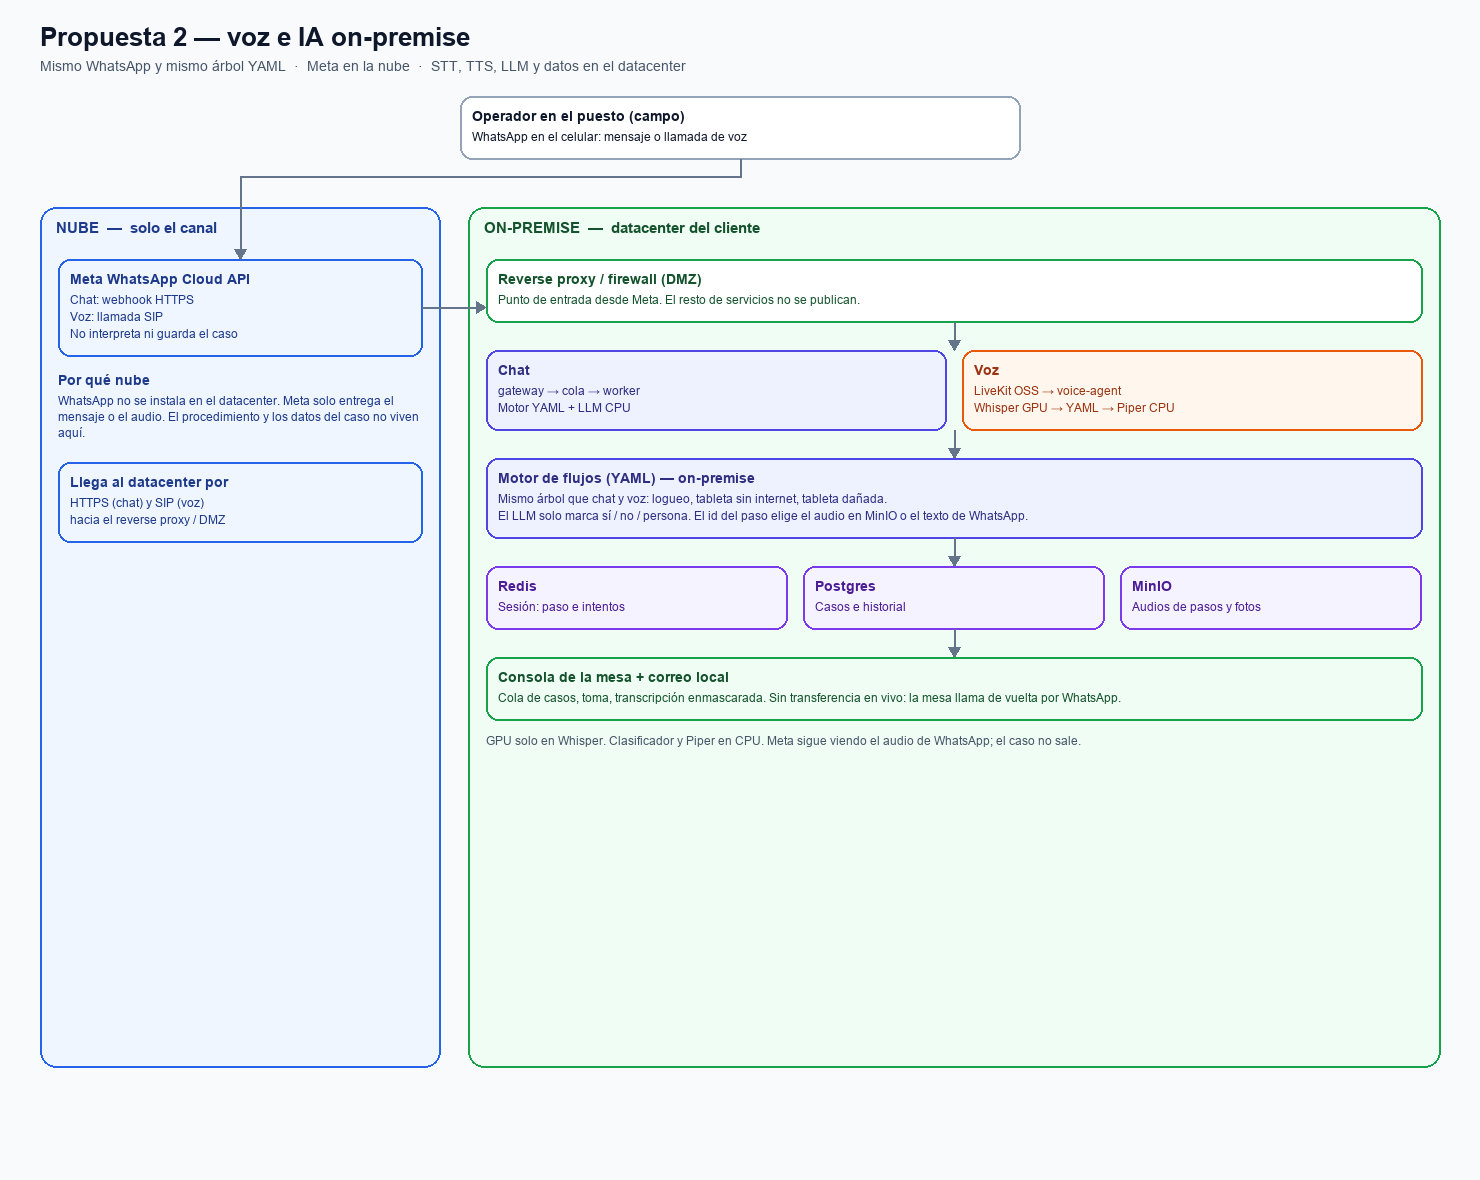
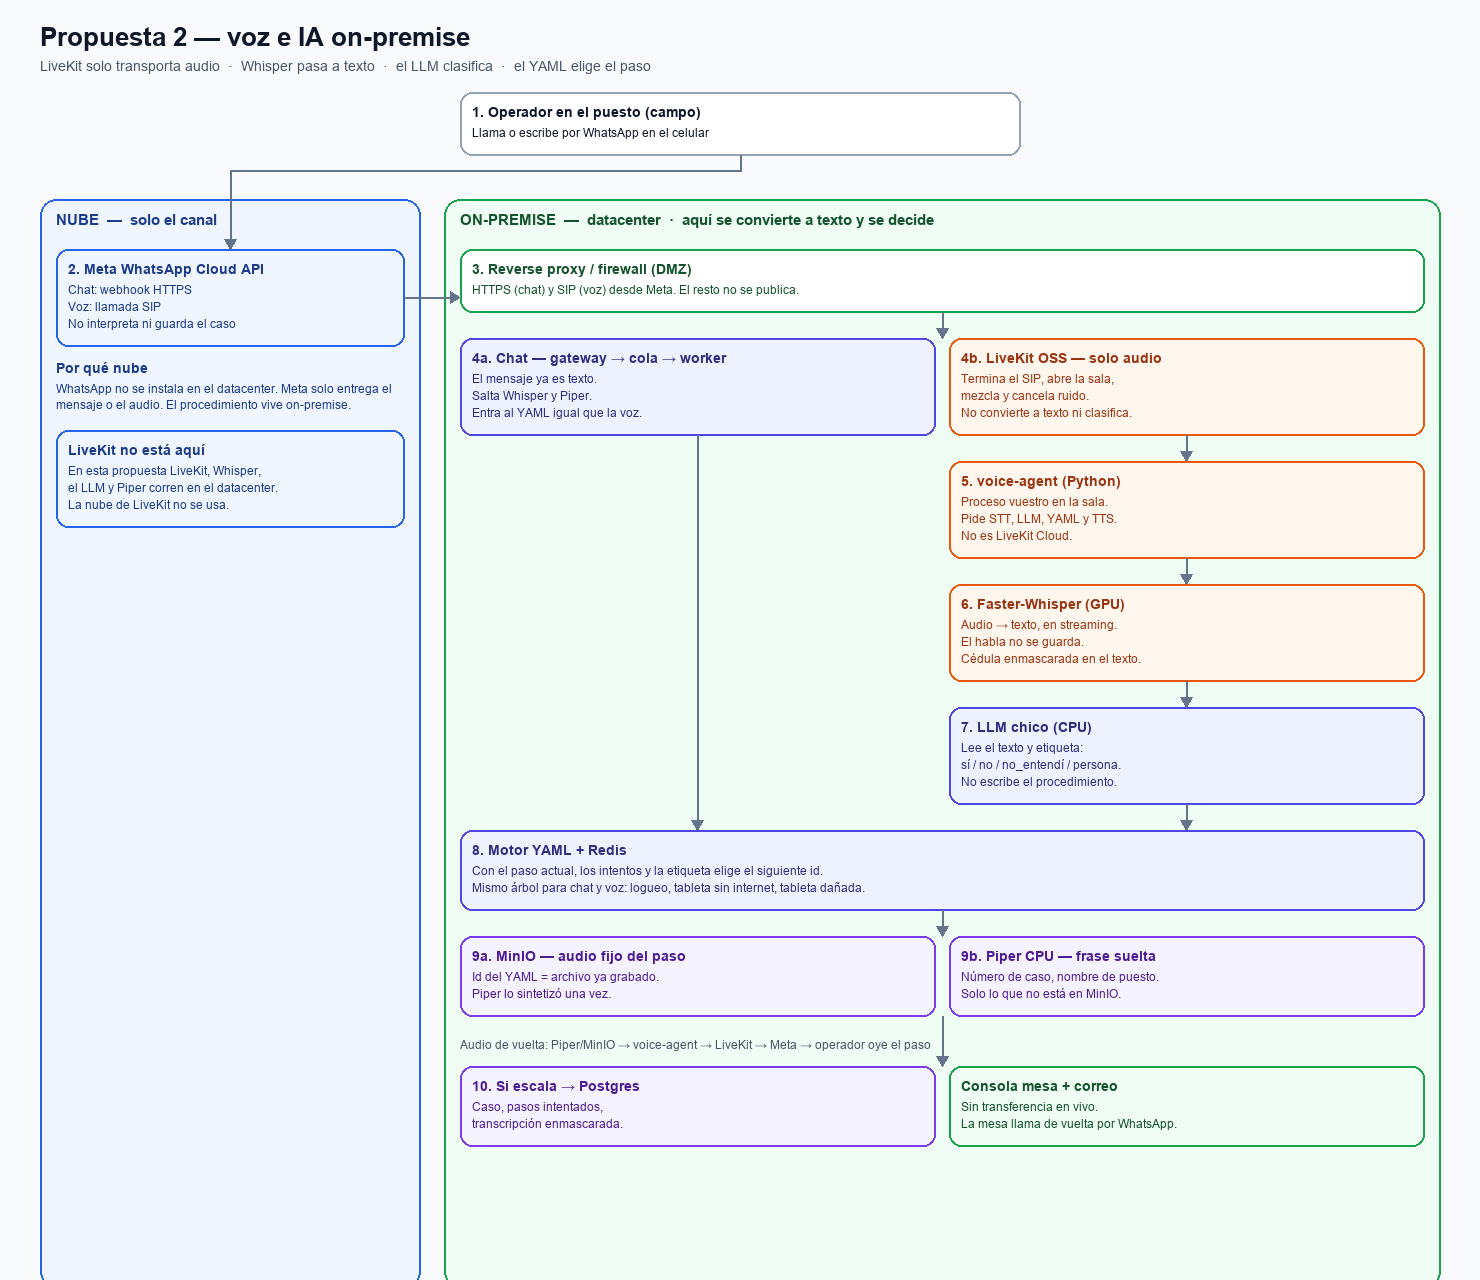
Detalla en el diagrama Whisper, LLM, YAML y Piper.
El recuadro on-premise muestra cada componente del turno de voz, no solo el canal y los datos.

Changed region(s): [[0.0311, 0.0, 0.9635, 0.9153], [0.5284, 0.4881, 0.5905, 0.5186], [0.9324, 0.8237, 0.9635, 0.8542]]

diff --git a/propuesta-2/generate_arquitectura.py b/propuesta-2/generate_arquitectura.py
@@ -158,6 +158,13 @@ def arrow_right(draw, x1, y, x2):
     draw.polygon([(x2, y), (x2 - 10, y - 6), (x2 - 10, y + 6)], fill=COLORS["arrow"])
 
 
+def arrow_left(draw, x1, y, x2):
+    if x1 - x2 < 14:
+        return
+    draw.line((x1, y, x2 + 10, y), fill=COLORS["arrow"], width=2)
+    draw.polygon([(x2, y), (x2 + 10, y - 6), (x2 + 10, y + 6)], fill=COLORS["arrow"])
+
+
 def draw_diagram():
     title_font = font(26, bold=True)
     subtitle_font = font(14)
@@ -173,107 +180,159 @@ def draw_diagram():
     app = {"bg": COLORS["app_bg"], "border": COLORS["app_border"], "text": COLORS["app_text"]}
     mesa = {"bg": COLORS["onp_bg"], "border": COLORS["onp_border"], "text": COLORS["onp_text"]}
 
-    H = 1180
+    H = 1280
     img = Image.new("RGB", (W, H), BG)
     draw = ImageDraw.Draw(img)
 
     draw.text((MARGIN, 22), "Propuesta 2 — voz e IA on-premise", fill=COLORS["title"], font=title_font)
     draw.text(
         (MARGIN, 58),
-        "Mismo WhatsApp y mismo árbol YAML  ·  Meta en la nube  ·  STT, TTS, LLM y datos en el datacenter",
+        "LiveKit solo transporta audio  ·  Whisper pasa a texto  ·  el LLM clasifica  ·  el YAML elige el paso",
         fill=COLORS["subtitle"],
         font=subtitle_font,
     )
 
-    op_w, op_h_box = 560, 0
+    op_w = 560
     op_x = (W - op_w) // 2
     op = draw_box(
-        draw, op_x, 96, op_w,
-        "Operador en el puesto (campo)",
-        ["WhatsApp en el celular: mensaje o llamada de voz"],
+        draw, op_x, 92, op_w,
+        "1. Operador en el puesto (campo)",
+        ["Llama o escribe por WhatsApp en el celular"],
         {"bg": WHITE, "border": "#94a3b8", "text": COLORS["title"]},
         box_title, box_body,
     )
 
-    region_y = op[3] + 48
-    nube_x, nube_w = MARGIN, 400
-    gap = 28
+    region_y = op[3] + 44
+    nube_x, nube_w = MARGIN, 380
+    gap = 24
     onp_x = nube_x + nube_w + gap
     onp_w = W - MARGIN - onp_x
-    region_h = 860
+    region_h = 1088
     draw_region(draw, nube_x, region_y, nube_w, region_h, "NUBE  —  solo el canal", COLORS["nube_bg"], COLORS["nube_border"], COLORS["nube_text"], lane_font)
-    draw_region(draw, onp_x, region_y, onp_w, region_h, "ON-PREMISE  —  datacenter del cliente", COLORS["onp_bg"], COLORS["onp_border"], COLORS["onp_text"], lane_font)
+    draw_region(draw, onp_x, region_y, onp_w, region_h, "ON-PREMISE  —  datacenter  ·  aquí se convierte a texto y se decide", COLORS["onp_bg"], COLORS["onp_border"], COLORS["onp_text"], lane_font)
 
-    inner = 18
+    inner = 16
     meta = draw_box(
-        draw, nube_x + inner, region_y + 52, nube_w - inner * 2,
-        "Meta WhatsApp Cloud API",
+        draw, nube_x + inner, region_y + 50, nube_w - inner * 2,
+        "2. Meta WhatsApp Cloud API",
         ["Chat: webhook HTTPS", "Voz: llamada SIP", "No interpreta ni guarda el caso"],
         nube, box_title, box_body,
     )
-    # Operador → Meta (el canal siempre pasa por la nube)
-    bus_y = op[3] + 18
+    bus_y = op[3] + 16
     meta_cx = nube_x + nube_w // 2
     draw.line((W // 2, op[3], W // 2, bus_y), fill=COLORS["arrow"], width=2)
     draw.line((W // 2, bus_y, meta_cx, bus_y), fill=COLORS["arrow"], width=2)
     arrow_down(draw, meta_cx, bus_y, meta[1])
-    draw.text((nube_x + inner, meta[3] + 16), "Por qué nube", fill=COLORS["nube_text"], font=box_title)
+
+    draw.text((nube_x + inner, meta[3] + 14), "Por qué nube", fill=COLORS["nube_text"], font=box_title)
     why_nube = wrap_text(
-        "WhatsApp no se instala en el datacenter. Meta solo entrega el mensaje o el audio. El procedimiento y los datos del caso no viven aquí.",
+        "WhatsApp no se instala en el datacenter. Meta solo entrega el mensaje o el audio. El procedimiento vive on-premise.",
         box_body, nube_w - inner * 2,
     )
-    ty = meta[3] + 38
+    ty = meta[3] + 36
     for line in why_nube:
         draw.text((nube_x + inner, ty), line, fill=COLORS["nube_text"], font=box_body)
         ty += 16
 
-    dmz = draw_box(
-        draw, nube_x + inner, ty + 20, nube_w - inner * 2,
-        "Llega al datacenter por",
-        ["HTTPS (chat) y SIP (voz)", "hacia el reverse proxy / DMZ"],
+    draw_box(
+        draw, nube_x + inner, ty + 16, nube_w - inner * 2,
+        "LiveKit no está aquí",
+        ["En esta propuesta LiveKit, Whisper,", "el LLM y Piper corren en el datacenter.", "La nube de LiveKit no se usa."],
         nube, box_title, box_body,
     )
 
     ox = onp_x + inner
     ow = onp_w - inner * 2
-    y = region_y + 52
-    proxy = draw_box(draw, ox, y, ow, "Reverse proxy / firewall (DMZ)", ["Punto de entrada desde Meta. El resto de servicios no se publican."], onp, box_title, box_body)
+    cx = ox + ow // 2
+    y = region_y + 50
+
+    proxy = draw_box(draw, ox, y, ow, "3. Reverse proxy / firewall (DMZ)", ["HTTPS (chat) y SIP (voz) desde Meta. El resto no se publica."], onp, box_title, box_body)
     arrow_right(draw, meta[2], (meta[1] + meta[3]) // 2, ox)
-    arrow_down(draw, ox + ow // 2, proxy[3], proxy[3] + 28)
+    arrow_down(draw, cx, proxy[3], proxy[3] + 26)
 
-    y = proxy[3] + 28
-    col_w = (ow - 16) // 2
-    chat = draw_box(draw, ox, y, col_w, "Chat", ["gateway → cola → worker", "Motor YAML + LLM CPU"], app, box_title, box_body)
-    voice = draw_box(draw, ox + col_w + 16, y, col_w, "Voz", ["LiveKit OSS → voice-agent", "Whisper GPU → YAML → Piper CPU"], gpu, box_title, box_body)
-    row_h = max(chat[3], voice[3])
-    arrow_down(draw, ox + ow // 2, row_h, row_h + 28)
-
-    y = row_h + 28
-    motor = draw_box(
-        draw, ox, y, ow,
-        "Motor de flujos (YAML) — on-premise",
-        ["Mismo árbol que chat y voz: logueo, tableta sin internet, tableta dañada.", "El LLM solo marca sí / no / persona. El id del paso elige el audio en MinIO o el texto de WhatsApp."],
+    y = proxy[3] + 26
+    col_w = (ow - 14) // 2
+    chat = draw_box(
+        draw, ox, y, col_w,
+        "4a. Chat — gateway → cola → worker",
+        ["El mensaje ya es texto.", "Salta Whisper y Piper.", "Entra al YAML igual que la voz."],
         app, box_title, box_body,
     )
-    arrow_down(draw, ox + ow // 2, motor[3], motor[3] + 28)
+    lk = draw_box(
+        draw, ox + col_w + 14, y, col_w,
+        "4b. LiveKit OSS — solo audio",
+        ["Termina el SIP, abre la sala,", "mezcla y cancela ruido.", "No convierte a texto ni clasifica."],
+        gpu, box_title, box_body,
+    )
+    row1 = max(chat[3], lk[3])
+    va_x = ox + col_w + 14
+    va_cx = va_x + col_w // 2
+    arrow_down(draw, va_cx, lk[3], row1 + 26)
 
-    y = motor[3] + 28
-    dw = (ow - 32) // 3
-    d1 = draw_box(draw, ox, y, dw, "Redis", ["Sesión: paso e intentos"], data, box_title, box_body)
-    d2 = draw_box(draw, ox + dw + 16, y, dw, "Postgres", ["Casos e historial"], data, box_title, box_body)
-    d3 = draw_box(draw, ox + (dw + 16) * 2, y, dw, "MinIO", ["Audios de pasos y fotos"], data, box_title, box_body)
-    data_bottom = max(d1[3], d2[3], d3[3])
-    arrow_down(draw, ox + ow // 2, data_bottom, data_bottom + 28)
+    y = row1 + 26
+    va = draw_box(
+        draw, va_x, y, col_w,
+        "5. voice-agent (Python)",
+        ["Proceso vuestro en la sala.", "Pide STT, LLM, YAML y TTS.", "No es LiveKit Cloud."],
+        gpu, box_title, box_body,
+    )
+    arrow_down(draw, va_cx, va[3], va[3] + 26)
 
-    y = data_bottom + 28
-    cons = draw_box(
-        draw, ox, y, ow,
-        "Consola de la mesa + correo local",
-        ["Cola de casos, toma, transcripción enmascarada. Sin transferencia en vivo: la mesa llama de vuelta por WhatsApp."],
-        mesa, box_title, box_body,
+    y = va[3] + 26
+    stt = draw_box(
+        draw, va_x, y, col_w,
+        "6. Faster-Whisper (GPU)",
+        ["Audio → texto, en streaming.", "El habla no se guarda.", "Cédula enmascarada en el texto."],
+        gpu, box_title, box_body,
+    )
+    arrow_down(draw, va_cx, stt[3], stt[3] + 26)
+
+    y = stt[3] + 26
+    llm = draw_box(
+        draw, va_x, y, col_w,
+        "7. LLM chico (CPU)",
+        ["Lee el texto y etiqueta:", "sí / no / no_entendí / persona.", "No escribe el procedimiento."],
+        app, box_title, box_body,
     )
 
-    draw.text((ox, cons[3] + 14), "GPU solo en Whisper. Clasificador y Piper en CPU. Meta sigue viendo el audio de WhatsApp; el caso no sale.", fill=COLORS["subtitle"], font=label_font)
+    yaml_y = min(chat[3] + 26, llm[3] + 26)
+    # YAML full width after LLM so chat can merge
+    yaml_top = llm[3] + 26
+    arrow_down(draw, va_cx, llm[3], yaml_top)
+    arrow_down(draw, ox + col_w // 2, chat[3], yaml_top)
+
+    yaml = draw_box(
+        draw, ox, yaml_top, ow,
+        "8. Motor YAML + Redis",
+        ["Con el paso actual, los intentos y la etiqueta elige el siguiente id.", "Mismo árbol para chat y voz: logueo, tableta sin internet, tableta dañada."],
+        app, box_title, box_body,
+    )
+    arrow_down(draw, cx, yaml[3], yaml[3] + 26)
+
+    y = yaml[3] + 26
+    dw = (ow - 14) // 2
+    minio = draw_box(draw, ox, y, dw, "9a. MinIO — audio fijo del paso", ["Id del YAML = archivo ya grabado.", "Piper lo sintetizó una vez."], data, box_title, box_body)
+    piper = draw_box(draw, ox + dw + 14, y, dw, "9b. Piper CPU — frase suelta", ["Número de caso, nombre de puesto.", "Solo lo que no está en MinIO."], data, box_title, box_body)
+    row9 = max(minio[3], piper[3])
+
+    # audio returns to LiveKit / Meta / operator
+    back_y = row9 + 22
+    draw.text((ox, back_y), "Audio de vuelta: Piper/MinIO → voice-agent → LiveKit → Meta → operador oye el paso", fill=COLORS["subtitle"], font=label_font)
+
+    y = back_y + 28
+    pg = draw_box(
+        draw, ox, y, dw,
+        "10. Si escala → Postgres",
+        ["Caso, pasos intentados,", "transcripción enmascarada."],
+        data, box_title, box_body,
+    )
+    cons = draw_box(
+        draw, ox + dw + 14, y, dw,
+        "Consola mesa + correo",
+        ["Sin transferencia en vivo.", "La mesa llama de vuelta por WhatsApp."],
+        mesa, box_title, box_body,
+    )
+    arrow_down(draw, cx, row9, pg[1])
 
     return img
 
